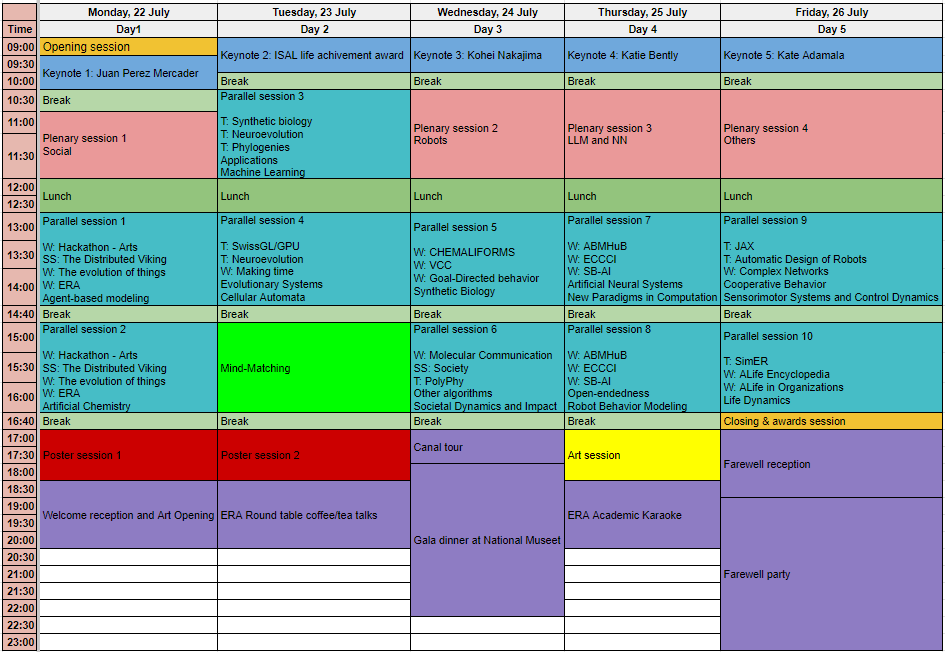
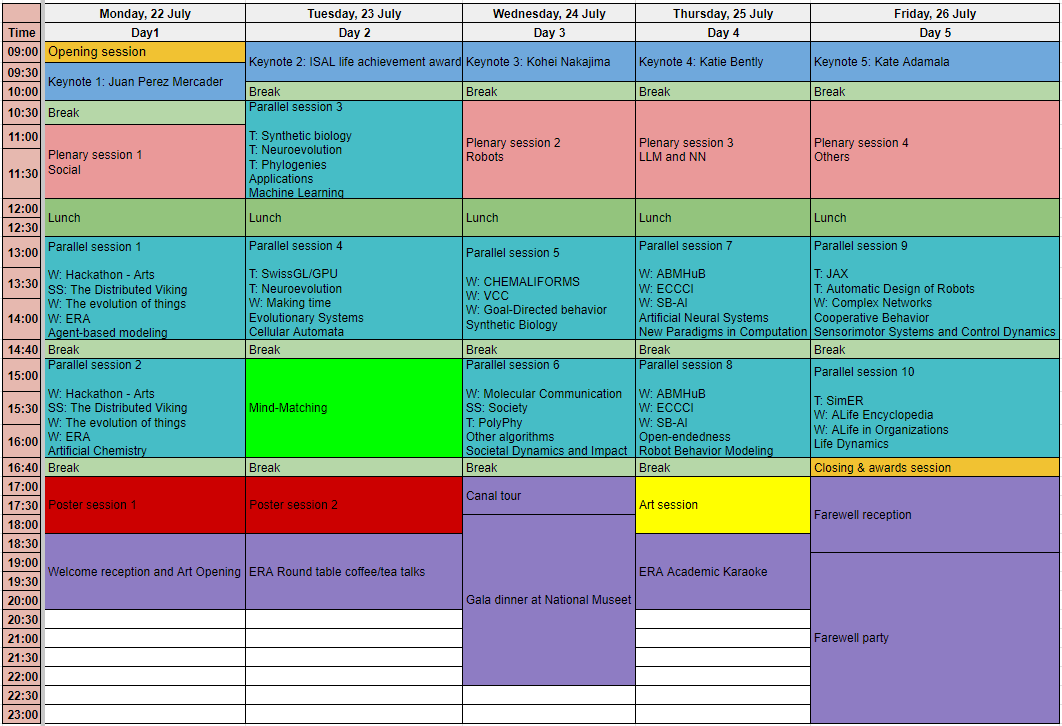
Fix typo in program timetable.

diff --git a/program.html b/program.html
@@ -99,7 +99,7 @@
 						</li>
 						<li class="cd-schedule__event">
 						  <a data-start="11:00" data-end="12:00"  data-event="event-4" href="#0">
-							<em class="cd-schedule__name">Plenary session 1<br />Social</em>
+							<em class="cd-schedule__name">Plenary session 1 <br />Social</em>
 						  </a>
 						</li>
 						<li class="cd-schedule__event">
@@ -146,7 +146,7 @@
 					  <ul>
 						<li class="cd-schedule__event">
 						  <a data-start="09:00" data-end="10:00" data-event="event-2" href="#0">
-							<em class="cd-schedule__name">Keynote 2: ISAL life achivement award</em>
+							<em class="cd-schedule__name">Keynote 2: ISAL life achievement award</em>
 						  </a>
 						</li>
 			  
@@ -215,7 +215,7 @@
 						</li>
 						<li class="cd-schedule__event">
 						  <a data-start="10:30" data-end="12:00"  data-event="event-4" href="#0">
-							<em class="cd-schedule__name">Plenary session 2<br />Robots</em>
+							<em class="cd-schedule__name">Plenary session 2 <br />Robots</em>
 						  </a>
 						</li>
 						<li class="cd-schedule__event">
@@ -273,7 +273,7 @@
 						</li>
 						<li class="cd-schedule__event">
 						  <a data-start="10:30" data-end="12:00"  data-event="event-4" href="#0">
-							<em class="cd-schedule__name">Plenary session 3<br />LLM and NN</em>
+							<em class="cd-schedule__name">Plenary session 3 <br />LLM and NN</em>
 						  </a>
 						</li>
 						<li class="cd-schedule__event">
@@ -331,7 +331,7 @@
 						</li>
 						<li class="cd-schedule__event">
 						  <a data-start="10:30" data-end="12:00"  data-event="event-4" href="#0">
-							<em class="cd-schedule__name">Plenary session 4<br />Others</em>
+							<em class="cd-schedule__name">Plenary session 4 <br />Others</em>
 						  </a>
 						</li>
 						<li class="cd-schedule__event">
